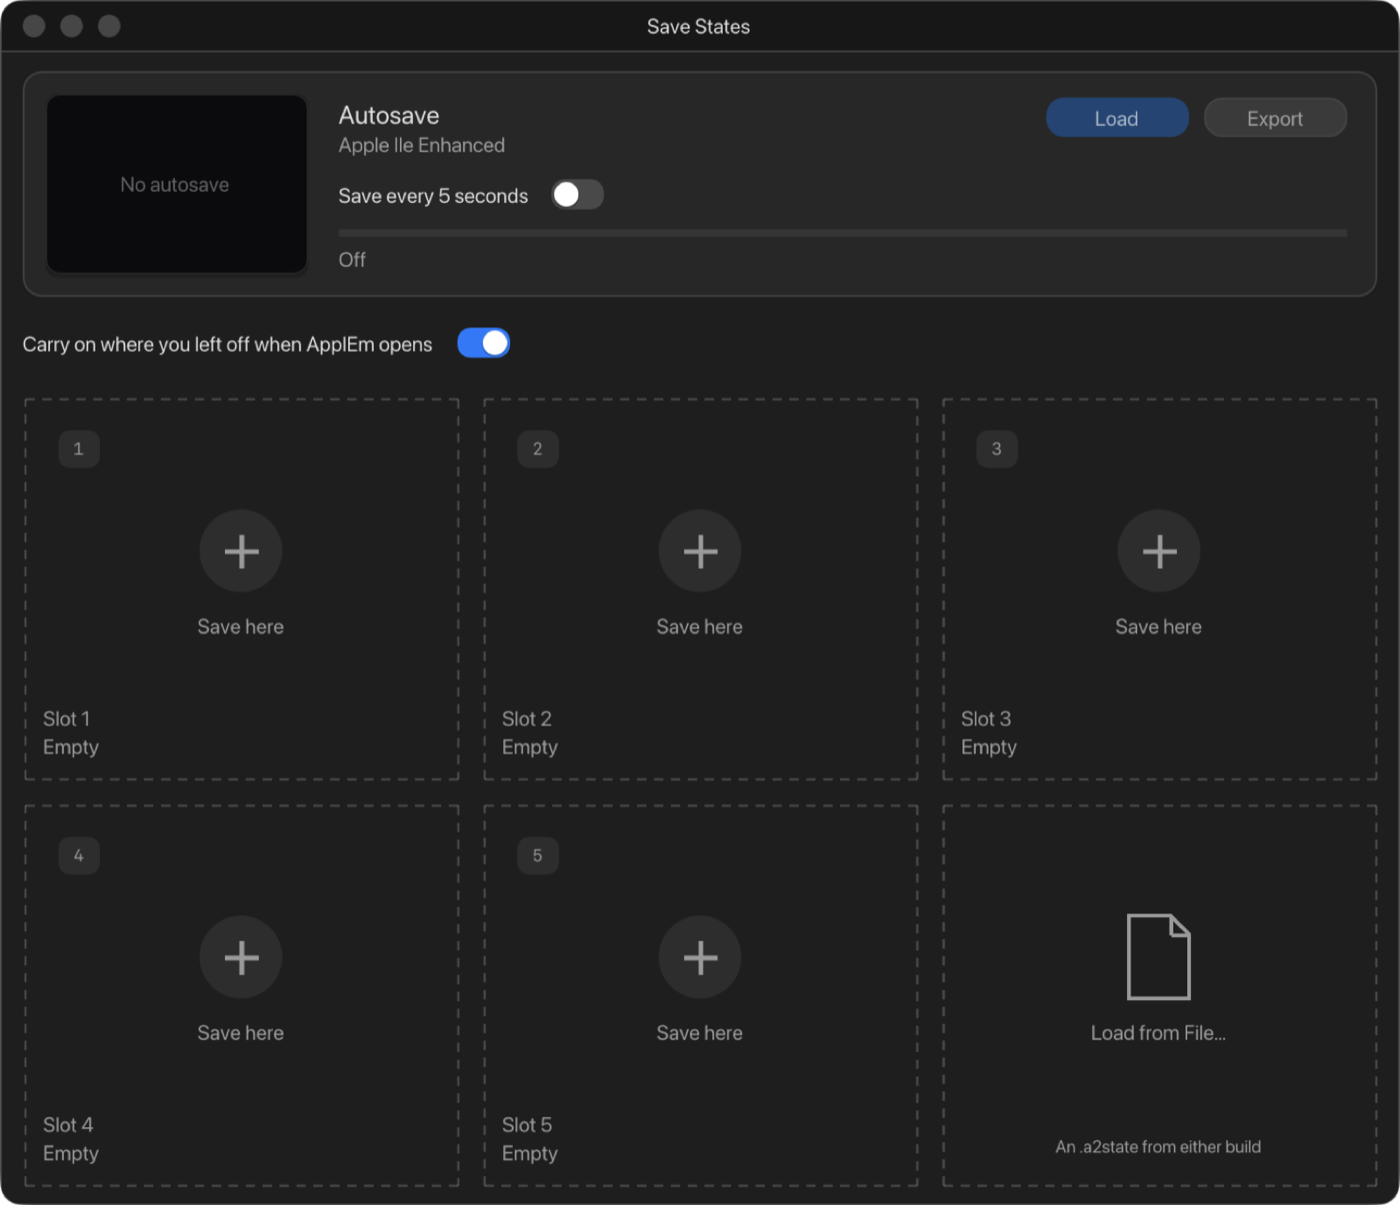
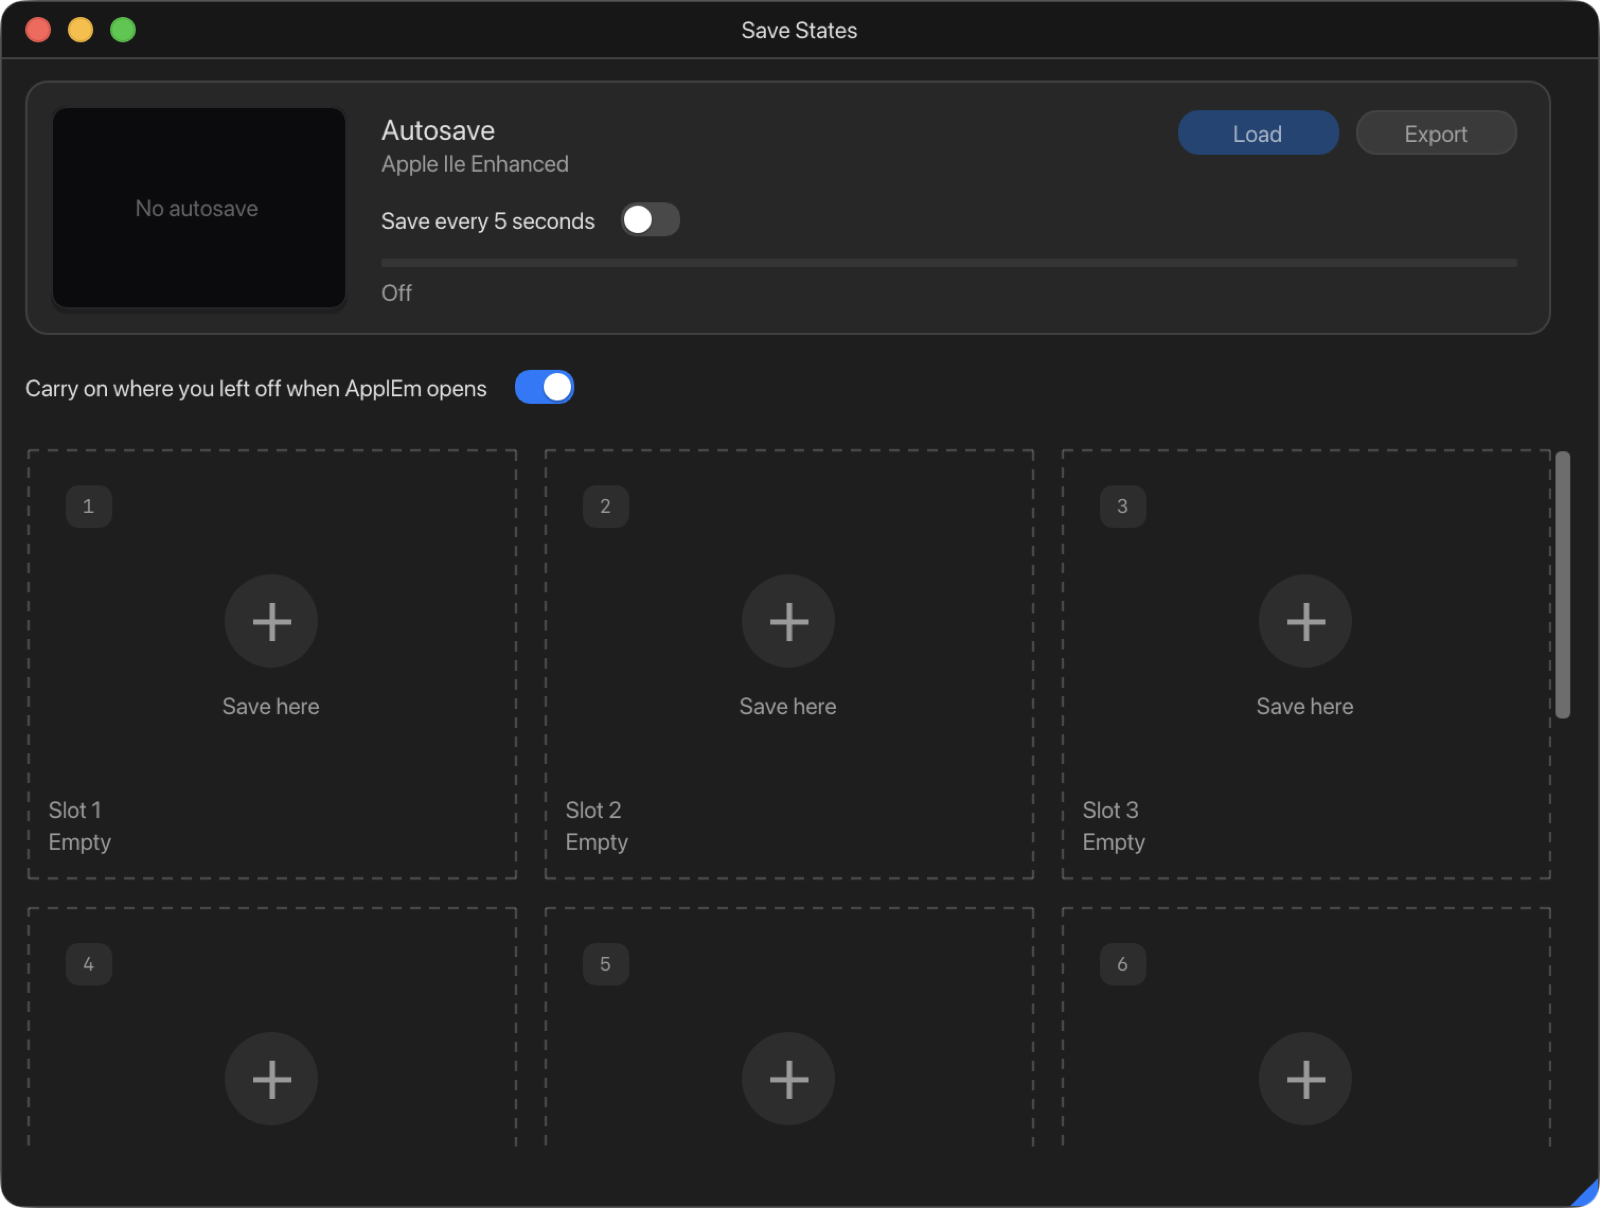
Ten save state slots, scrolling under the autosave
The Save States window keeps ten shared slots instead of five. It is
three cards wide and as tall as you make it: the autosave stays at the
top and the slots, with Load from File after them, scroll below it.
The guide's chapter and its screenshot follow.

diff --git a/native/src/states/save_states.cpp b/native/src/states/save_states.cpp
@@ -1,5 +1,5 @@
 /*
- * save_states.cpp - The Save States window: an autosave and five slots
+ * save_states.cpp - The Save States window: an autosave and ten slots
  *
  * Written by
  *  Mike Daley <michael_daley@icloud.com>
@@ -563,7 +563,7 @@ void SaveStates::loadFile(const std::string &path) {
   }
 }
 
-// The sixth place in the grid: a state from a file.
+// The last place in the grid: a state from a file.
 void SaveStates::drawFileCard(ImVec2 at, ImVec2 size) {
   ImDrawList *draw = ImGui::GetWindowDrawList();
   const ImVec2 end(at.x + size.x, at.y + size.y);
@@ -583,7 +583,7 @@ void SaveStates::drawFileCard(ImVec2 at, ImVec2 size) {
   draw->AddLine(ImVec2(doc.x + 22, doc.y + 10), ImVec2(doc.x + 32, doc.y + 10), ink, 2.0f);
   centredText(draw, ImVec2(middle.x, middle.y + 40), ink, "Load from File…");
   ImGui::PushFont(nullptr, ImGui::GetFontSize() * ui::SMALL_TEXT);
-  centredText(draw, ImVec2(middle.x, end.y - 22), secondary(), "An .a2state from either build");
+  centredText(draw, ImVec2(middle.x, end.y - 22), secondary(), "An .a2state file");
   ImGui::PopFont();
   if (clicked) {
     platform_.openFile("Load a save state", {"a2state"}, [this](const std::string &path) {
@@ -602,24 +602,39 @@ void SaveStates::draw(bool *open) {
 
     ui::BeforeWindow("Save States");
 
-    if (ui::BeginWindow("Save States", open, ImGuiWindowFlags_AlwaysAutoResize)) {
+    // Three cards wide, as tall as the user makes it: the slots scroll below
+    // the autosave, which stays in view.
+    const float width = CARD_WIDTH * 3 + COLUMN_GAP * 2;
+    const ImGuiStyle &style = ImGui::GetStyle();
+    const float windowWidth = width + style.ScrollbarSize + style.WindowPadding.x * 2;
+    ImGui::SetNextWindowSizeConstraints(ImVec2(windowWidth, 420), ImVec2(windowWidth, FLT_MAX));
+    ImGui::SetNextWindowSize(ImVec2(windowWidth, 760), ImGuiCond_FirstUseEver);
+
+    if (ui::BeginWindow("Save States", open, ImGuiWindowFlags_NoScrollbar | ImGuiWindowFlags_NoScrollWithMouse)) {
       dialogs_.note();
-      const float width = CARD_WIDTH * 3 + COLUMN_GAP * 2;
       drawAutosave(width);
       ImGui::Dummy(ImVec2(0, 2));
       ui::Switch("Carry on where you left off when ApplEm opens", &resumeOnLaunch);
       ImGui::Dummy(ImVec2(0, 6));
 
-      // Five slots and a way in from a file, three to a row.
-      const ImVec2 grid = ImGui::GetCursorScreenPos();
-      const ImVec2 cell(CARD_WIDTH, 10 + THUMB_HEIGHT * SCREEN_SCALE + 10 + ImGui::GetTextLineHeight() * 2 + 14);
-      for (int i = 0; i < StateStore::SLOTS + 1; i++) {
-        const ImVec2 at(grid.x + (i % 3) * (CARD_WIDTH + COLUMN_GAP), grid.y + (i / 3) * (cell.y + COLUMN_GAP));
-        if (i < StateStore::SLOTS) drawSlot(i + 1, at, cell);
-        else drawFileCard(at, cell);
+      // The slots and a way in from a file, three to a row, scrolling in the
+      // rest of the window; a line is kept under them for the notice.
+      const float noticeLine = ImGui::GetTextLineHeightWithSpacing();
+      if (ImGui::BeginChild("##slots", ImVec2(width + style.ScrollbarSize, -noticeLine), ImGuiChildFlags_None,
+                            ImGuiWindowFlags_NoBackground)) {
+        const ImVec2 grid = ImGui::GetCursorScreenPos();
+        const ImVec2 cell(CARD_WIDTH, 10 + THUMB_HEIGHT * SCREEN_SCALE + 10 + ImGui::GetTextLineHeight() * 2 + 14);
+        const int cards = StateStore::SLOTS + 1;
+        for (int i = 0; i < cards; i++) {
+          const ImVec2 at(grid.x + (i % 3) * (CARD_WIDTH + COLUMN_GAP), grid.y + (i / 3) * (cell.y + COLUMN_GAP));
+          if (i < StateStore::SLOTS) drawSlot(i + 1, at, cell);
+          else drawFileCard(at, cell);
+        }
+        const int rows = (cards + 2) / 3;
+        ImGui::SetCursorScreenPos(grid);
+        ImGui::Dummy(ImVec2(width, cell.y * rows + COLUMN_GAP * (rows - 1)));
       }
-      ImGui::SetCursorScreenPos(grid);
-      ImGui::Dummy(ImVec2(width, cell.y * 2 + COLUMN_GAP));
+      ImGui::EndChild();
       if (ImGui::GetTime() < noticeUntil_) {
         ImGui::TextColored(ImGui::ColorConvertU32ToFloat4(GREEN_U32), "%s", notice_.c_str());
       }

diff --git a/native/src/states/state_store.hpp b/native/src/states/state_store.hpp
@@ -1,5 +1,5 @@
 /*
- * state_store.hpp - Save states kept on disk: an autosave per machine, five slots
+ * state_store.hpp - Save states kept on disk: an autosave per machine, ten slots
  *
  * Written by
  *  Mike Daley <michael_daley@icloud.com>
@@ -41,7 +41,7 @@ struct StateRecord {
 
 // The browser's records (state-persistence.js), as files: each record is
 // <id>.a2state with <id>.meta beside it (machine and time) and <id>.thumb.
-// The five slots are shared by every machine and each says which machine
+// The ten slots are shared by every machine and each says which machine
 // filled it; the autosave is one per machine, because a state restores only
 // into the machine that wrote it.
 // Whether the machine a quit left (`record`) may be carried on from in
@@ -52,7 +52,7 @@ bool mayResume(const StateRecord &record, const std::string &machine, const std:
 
 class StateStore {
 public:
-  static constexpr int SLOTS = 5;
+  static constexpr int SLOTS = 10;
 
   explicit StateStore(std::string directory);
 

diff --git a/native/src/states/save_states.hpp b/native/src/states/save_states.hpp
@@ -1,5 +1,5 @@
 /*
- * save_states.hpp - The Save States window: an autosave and five slots
+ * save_states.hpp - The Save States window: an autosave and ten slots
  *
  * Written by
  *  Mike Daley <michael_daley@icloud.com>
@@ -29,7 +29,7 @@ class Emulation;
 // The browser build's Save States window (save-states-window.js,
 // state-manager.js) and its rules:
 //
-// - Five slots shared by every machine, each naming the machine that filled
+// - Ten slots shared by every machine, each naming the machine that filled
 //   it, and an autosave per machine; the autosave is written every five
 //   seconds while the machine runs, when it is turned on (it starts off).
 // - A state restores only into the machine that wrote it, so loading one

diff --git a/native/src/states/state_store.cpp b/native/src/states/state_store.cpp
@@ -1,5 +1,5 @@
 /*
- * state_store.cpp - Save states kept on disk: an autosave per machine, five slots
+ * state_store.cpp - Save states kept on disk: an autosave per machine, ten slots
  *
  * Written by
  *  Mike Daley <michael_daley@icloud.com>

diff --git a/docs/guide/07-save-states.md b/docs/guide/07-save-states.md
@@ -47,9 +47,11 @@ just before you quit, switch machine or change the IIgs's memory.
   when ApplEm last quit, kept aside before this session's first autosave
   replaces it.
 
-## The five slots
+## The ten slots
 
-Below the autosave are five slots, shared by all the machines.
+Below the autosave are ten slots, shared by all the machines. They scroll:
+use the scroll wheel or trackpad over them, or make the window taller to see
+more at once.
 
 - **Click an empty slot** (**Save here**) to save the machine into it.
 - **Hover over a filled slot** for **Load**, **Save** (over this slot),
@@ -60,7 +62,7 @@ Each filled slot shows a picture of the screen, the machine that saved it,
 and when. The machine's name is shown in orange when loading the state would
 mean switching machine.
 
-The sixth card, **Load from File…**, opens a `.a2state` file. A state saved
+The last card, after slot 10, is **Load from File…**. It opens a `.a2state` file. A state saved
 by the browser version of ApplEm loads here too, and the other way round.
 You can also double-click a `.a2state` file in the Finder.
 
